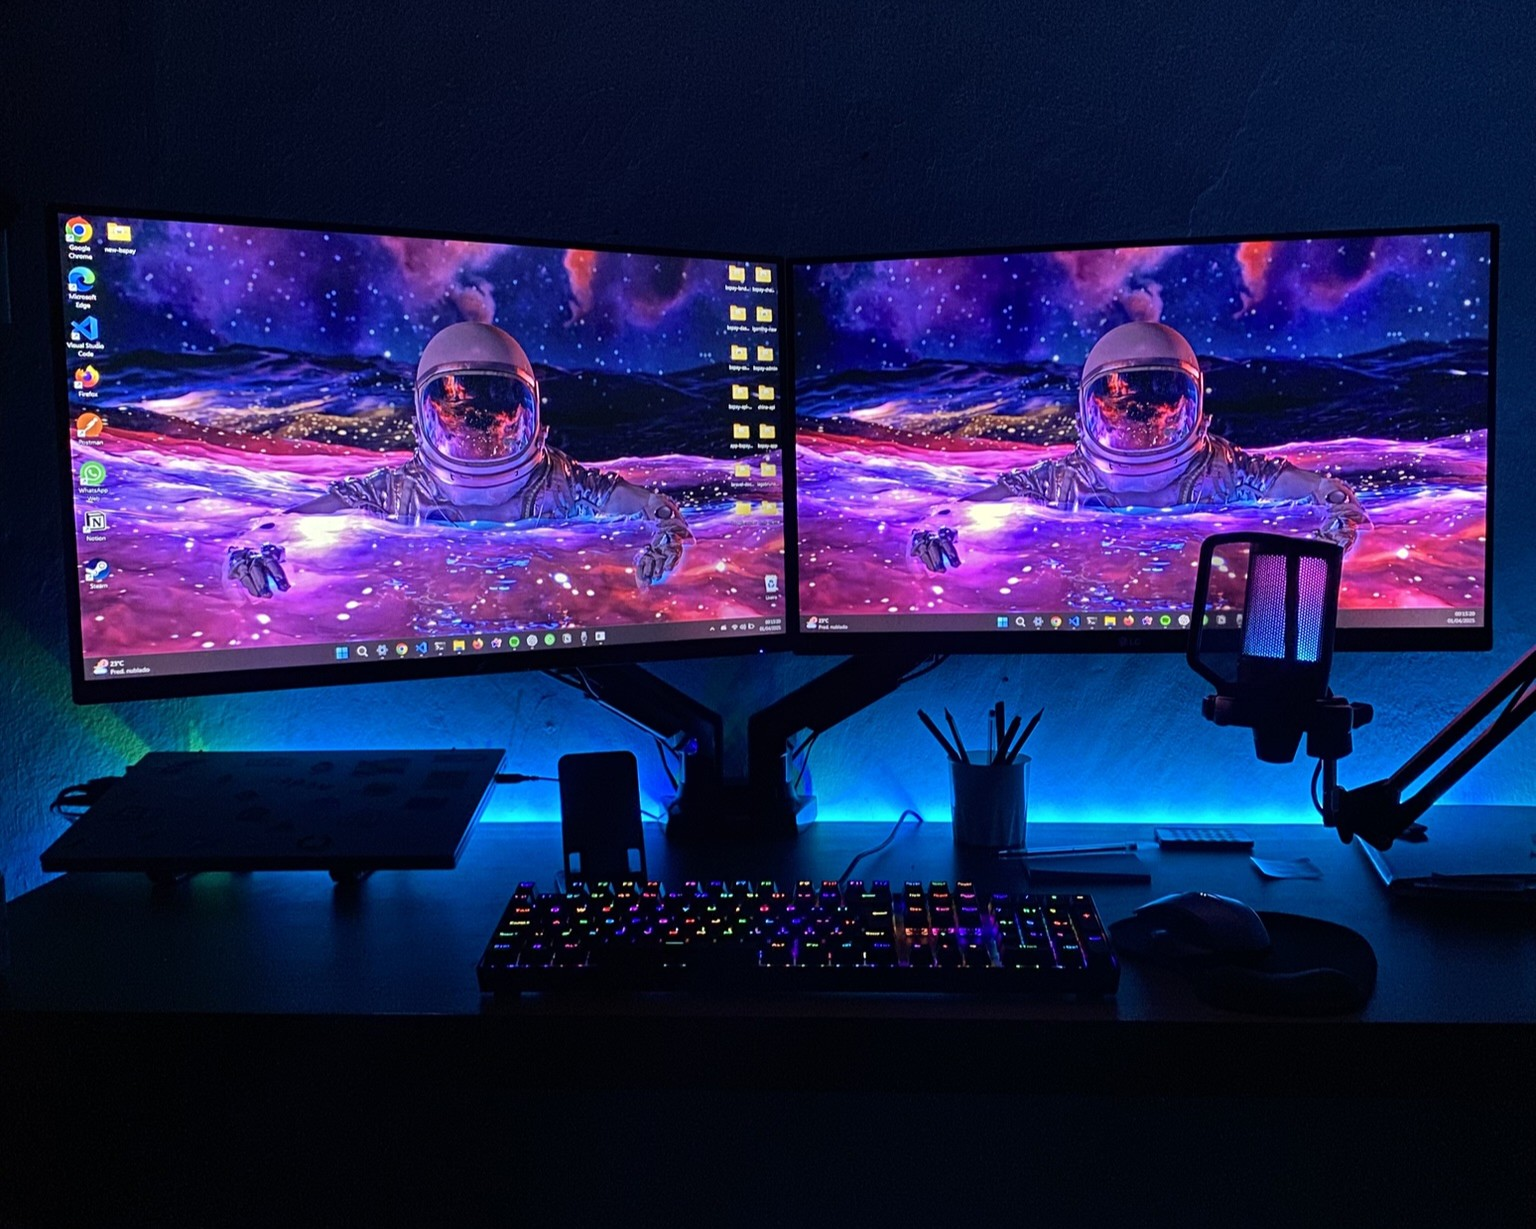
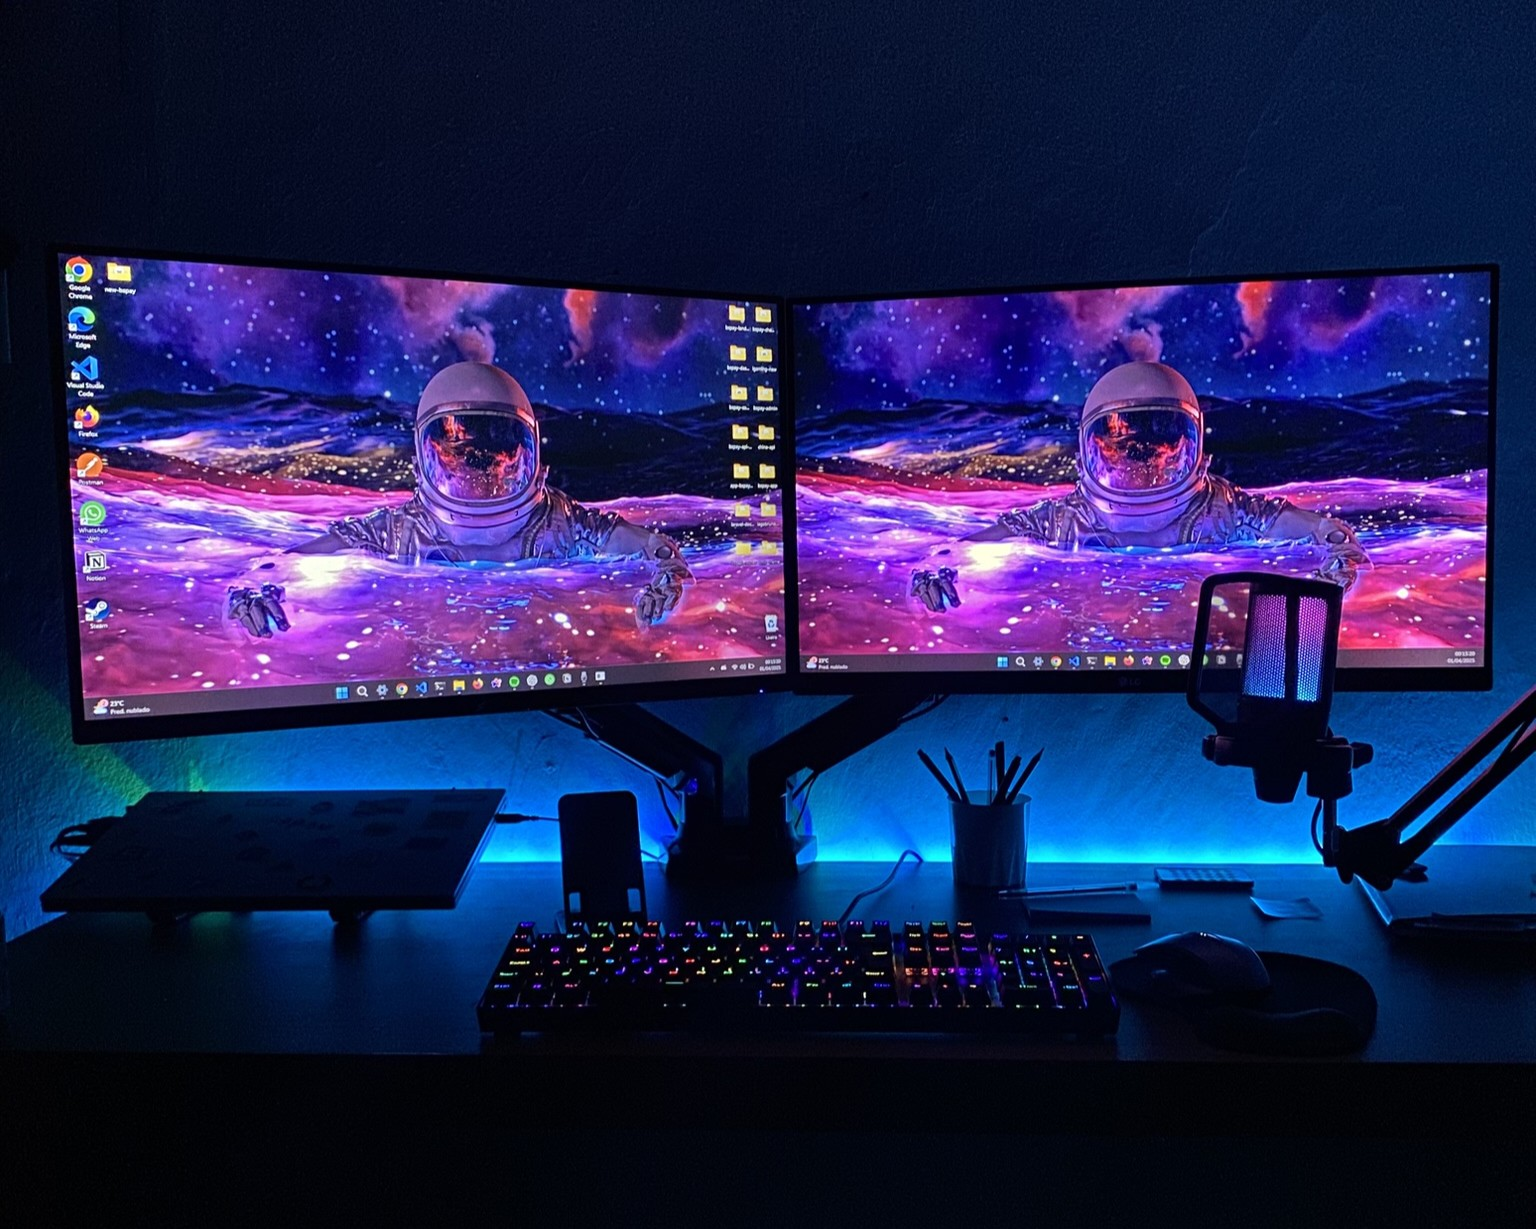
change: Replace workstation image

diff --git a/app/uses/page.tsx b/app/uses/page.tsx
@@ -4,7 +4,7 @@ import Hero from '@/components/Hero'
 type Tools = Array<[category: string, list: Array<string>]>
 
 const tools: Tools = [
-  ['Hardware', ['Notebook Acer Aspire 315 i3, 8GB RAM', 'Monitor SuperFrame de 24”', 'Monitor LG de 24”', 'Teclado Redragon switch brown', 'Mouse pro-gaming Hrebos', 'iPhone 11']],
+  ['Hardware', ['Notebook Acer Aspire 315 i3, 8GB RAM', 'Monitor SuperFrame de 24”', 'Monitor LG de 24”', 'Teclado Redragon switch brown', 'Mouse pro-gaming Hrebos']],
   ['Programas e ferramentas', ['Visual Studio Code', 'Chrome', 'Windows Terminal', 'Insomnia / Postman', 'Figma', 'WSL (Windows Subsystem for Linux)', 'Docker', 'GitHub', 'GitHub Copilot',]],
   ['Banco de dados', ['PostgreSQL', 'MySQL', 'MongoDB', 'Redis', 'Firebase Cloud Storage',]],
   ['Tecnologias', ['JavaScript', 'TypeScript', 'NodeJS', 'PHP', 'Laravel', 'NextJS', 'Vite', 'React', 'Vue', 'Svelte', 'Tailwind CSS', 'SASS', 'NPM / Yarn / PNPM', 'Jest / Mocha / Pest',]]
